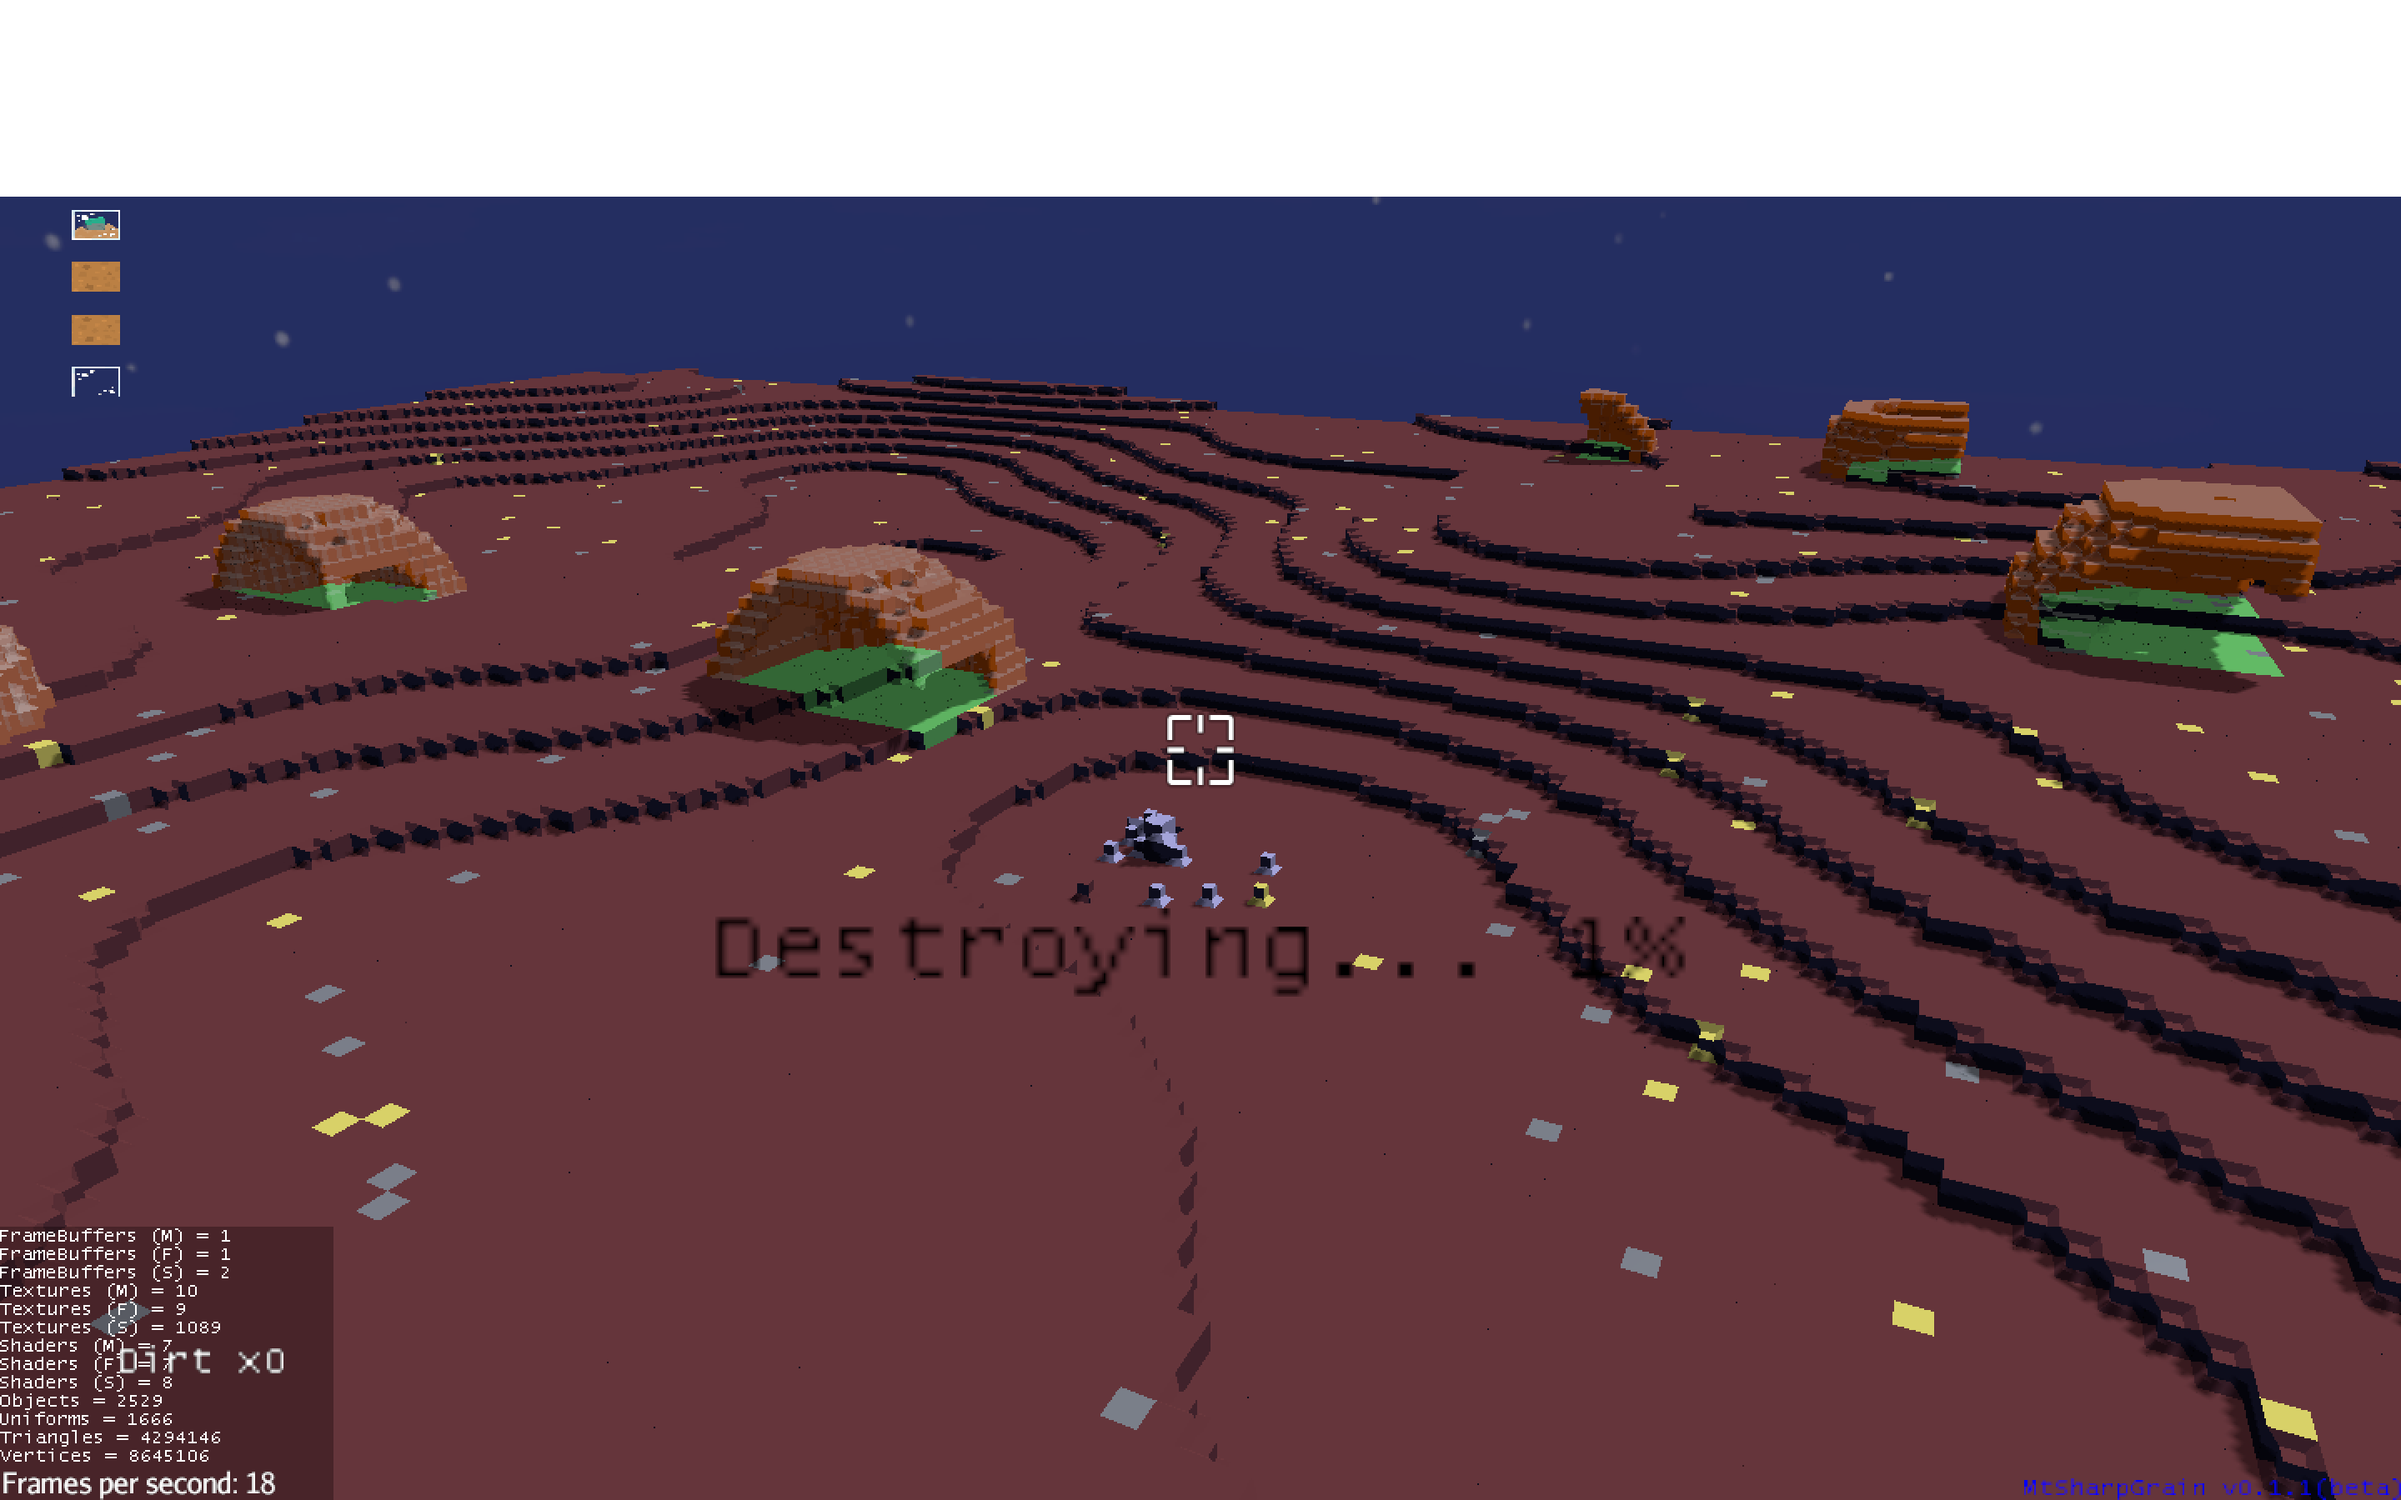
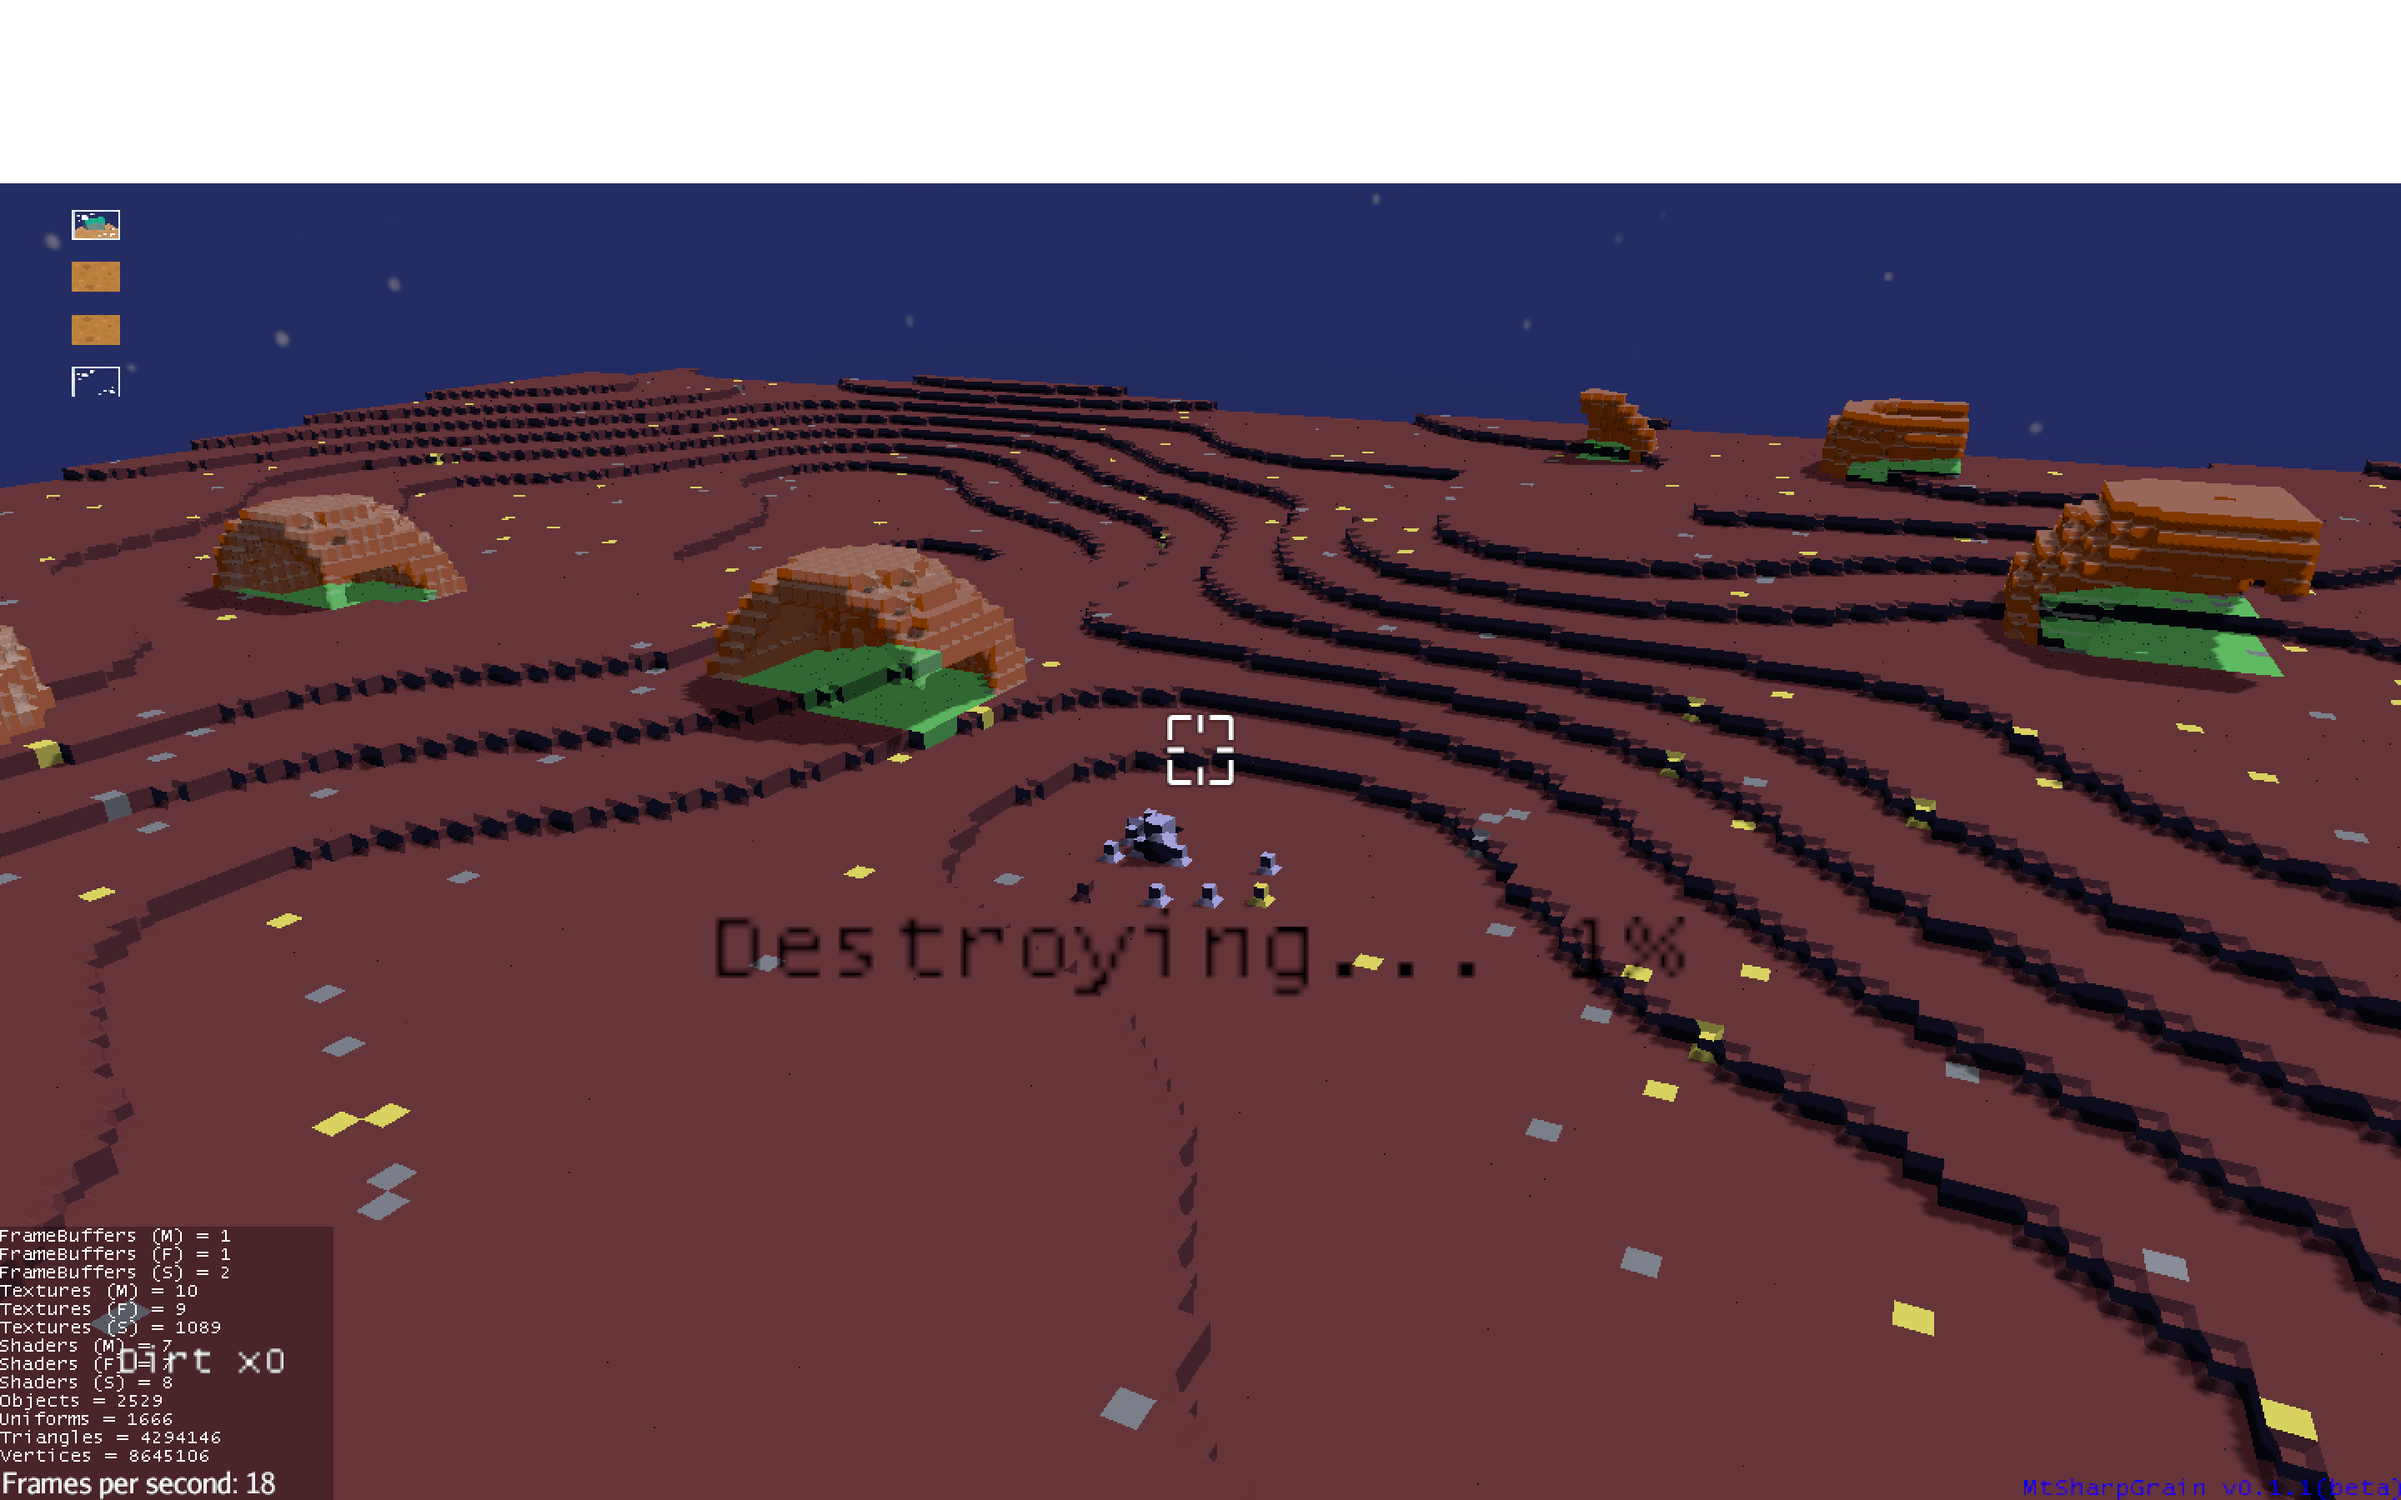
pictures... ect...

Changed region(s): [[0.0, 0.1244, 1.0, 0.1556]]

diff --git a/src/main/java/com/mtsharpgrain/RenderManager.java b/src/main/java/com/mtsharpgrain/RenderManager.java
@@ -24,8 +24,6 @@ public final class RenderManager {
     private final Set<ChunkPos> dirtySet = Collections.newSetFromMap(new ConcurrentHashMap<>());
 
     private final Set<ChunkPos> pendingGeneration = Collections.newSetFromMap(new ConcurrentHashMap<>());
-    private int chunksRequestedThisFrame = 0;
-    private static final int MAX_CHUNK_REQUESTS_PER_FRAME = 8; // Throttle chunk requests
 
     // These are now wired in via the constructor instead of being left unset.
     // chunkGen is the SAME JsChunkGenerator instance passed into WorldAccess,
@@ -50,7 +48,7 @@ public final class RenderManager {
         // If the mesh is already attached to the scene (safety), skip creating render data.
         String meshName = "Ck" + pos.getX() + "y" + pos.getY() + "z" + pos.getZ();
         if (nd.getChild(meshName) != null) return;
-
+        
         BufferedChunk loaded = worldAccess.getChunk(pos);
         if (loaded != null) {
             // Only create render data and mark dirty if we don't already have it.
@@ -58,7 +56,7 @@ public final class RenderManager {
             return;
         }
         if (!pendingGeneration.add(pos)) return; // already in flight
-        
+
         BufferedChunk fromDisk = worldAccess.tryLoadFromDisk(pos);
         if (fromDisk != null) {
             worldAccess.putLoadedChunk(pos, fromDisk);
@@ -67,9 +65,9 @@ public final class RenderManager {
 
             return;
         }
-        
+    
         // Async path: runs chunkBuild() in chunkgen.js on the dedicated js-chunk-gen thread.
-        // Non-blocking - the main/render thread is free to keep ticking while this resolves.
+        // Non-blocking — the main/render thread is free to keep ticking while this resolves.
         chunkGen.generateAsync(pos, worldSeed).whenComplete((chunk, err) -> {
             pendingGeneration.remove(pos);
             if (err != null) { err.printStackTrace(); return; }
@@ -85,43 +83,16 @@ public final class RenderManager {
         int px = worldToChunk((int)playerX);
         int py = worldToChunk((int)playerY);
         int pz = worldToChunk((int)playerZ);
-
-        // Reset request counter at the start of each frame
-        chunksRequestedThisFrame = 0;
-
+        
         stillInRange.clear();
+        
+        for (int dx = -Main.VIEW_DISTANCE; dx <= Main.VIEW_DISTANCE; dx++) {
+            for (int dy = -viewBottom; dy <= viewTop; dy++) {
+                for (int dz = -Main.VIEW_DISTANCE; dz <= Main.VIEW_DISTANCE; dz++) {
+                    ChunkPos pos = new ChunkPos(px + dx, py + dy, pz + dz);
+                    stillInRange.add(pos);
 
-        // Check if player has moved to a new chunk
-        boolean playerMoved = (px != lastPx || py != lastPy || pz != lastPz);
-        lastPx = px;
-        lastPy = py;
-        lastPz = pz;
-
-        // Prioritize chunks near the player when moving
-        int startDx = (playerMoved) ? -1 : -Main.VIEW_DISTANCE;
-        int endDx = (playerMoved) ? 1 : Main.VIEW_DISTANCE;
-        int startDz = (playerMoved) ? -1 : -Main.VIEW_DISTANCE;
-        int endDz = (playerMoved) ? 1 : Main.VIEW_DISTANCE;
-
-        // First pass: request chunks in priority order (closer to player first)
-        for (int priority = 0; priority <= 1; priority++) {
-            int dxStart = (priority == 0) ? startDx : -Main.VIEW_DISTANCE;
-            int dxEnd = (priority == 0) ? endDx : Main.VIEW_DISTANCE;
-            int dzStart = (priority == 0) ? startDz : -Main.VIEW_DISTANCE;
-            int dzEnd = (priority == 0) ? endDz : Main.VIEW_DISTANCE;
-
-            for (int dx = dxStart; dx <= dxEnd; dx++) {
-                for (int dy = -viewBottom; dy <= viewTop; dy++) {
-                    for (int dz = dzStart; dz <= dzEnd; dz++) {
-                        ChunkPos pos = new ChunkPos(px + dx, py + dy, pz + dz);
-                        stillInRange.add(pos);
-
-                        // Throttle: only request if we haven't hit the limit
-                        if (chunksRequestedThisFrame < MAX_CHUNK_REQUESTS_PER_FRAME) {
-                            requestChunk(pos);
-                            chunksRequestedThisFrame++;
-                        }
-                    }
+                    requestChunk(pos);
                 }
             }
         }
@@ -135,13 +106,14 @@ public final class RenderManager {
 
         this.processDirtyQueue();
     }
+    
 
     private static int worldToChunk(int coord) {
         return coord >> 4; // match WorldAccess exactly
     }
 
     public void markDirty(ChunkPos pos) {
-        if (dirtySet.add(pos)) {  // add() returns false if already present - O(1)
+        if (dirtySet.add(pos)) {  // add() returns false if already present — O(1)
             dirtyQueue.add(pos);
         }
     }
@@ -161,40 +133,28 @@ public final class RenderManager {
         for (int i = 0; i < maxPerTick; i++) {
             ChunkPos pos = dirtyQueue.poll();
             if (pos == null) return;
-            if (!renderMap.containsKey(pos)) continue;
+            if (!renderMap.containsKey(pos)) continue; // NEW: stale entry, chunk was unloaded before we got to it
             if (pendingChunks.contains(pos)) {
                 dirtyQueue.add(pos);
                 continue;
             }
             BufferedChunk chunk = worldAccess.getChunk(pos);
             if (chunk == null) continue;
-
-            // Skip rebuild if chunk data hasn't changed (hash comparison)
-            ChunkRenderData crd = renderMap.get(pos);
-            int currentHash = chunk.hashCode();
-            if (crd.lastChunkHash != null && crd.lastChunkHash.equals(currentHash)) {
-                dirtySet.remove(pos);
-                continue; // Chunk unchanged, skip rebuild
-            }
-
             CompletableFuture.runAsync(() -> {
                 try {
                     dirtySet.remove(pos);
                     pendingChunks.add(pos);
                     Spatial newMesh = ChunkMeshBuilder.build(pos, chunk, assetManager);
                     app.enqueue(() -> {
-                        if (!renderMap.containsKey(pos)) {
+                        if (!renderMap.containsKey(pos)) {  // NEW: unloaded while we were building — don't reattach
                             pendingChunks.remove(pos);
                             return null;
                         }
                         Spatial oldCk = nd.getChild(newMesh.getName());
                         if (oldCk != null) oldCk.removeFromParent();
                         nd.attachChild(newMesh);
-                        ChunkRenderData currentData = renderMap.get(pos);
-                        if (currentData != null) {
-                            currentData.lastBuiltTime = System.currentTimeMillis();
-                            currentData.lastChunkHash = currentHash;
-                        }
+                        ChunkRenderData crd = renderMap.get(pos);
+                        if (crd != null) crd.lastBuiltTime = System.currentTimeMillis();
                         pendingChunks.remove(pos);
                         return null;
                     });
@@ -218,9 +178,11 @@ public final class RenderManager {
         });
     }
 
+    // New method to handle block changes and trigger rebuilds
     public void onBlockChanged(int worldX, int worldY, int worldZ) {
         ChunkPos chunkPos = worldToChunk(worldX, worldY, worldZ);
         markDirty(chunkPos);
+        // Mark neighbors if on boundary (simplified: always mark neighbors for now)
         markNeighborsDirty(chunkPos);
     }
 
@@ -228,7 +190,6 @@ public final class RenderManager {
         public Object geometry;
         public long lastBuiltTime;
         public ChunkPos pos;
-        public Integer lastChunkHash;
         public ChunkRenderData(ChunkPos pos) { this.pos = pos; }
     }
 

diff --git a/README.md b/README.md
@@ -125,6 +125,7 @@ My todo/doing list:
 Even my horible computer can run 5+ view distance easily!
 - Fix strange bug - chunks zipping around (can only be seen with window bug)
 - Fix window bug - not transparent but not, *not* transparent either. (i want to blame jmonkeyengine for this but i have to wait and see)
+- **IMPORTANT** fix gui, its buggy now. thumbnails refuse to disapear.
 
 <sup>80% here means it is basically done but could be improved</sup>
 
